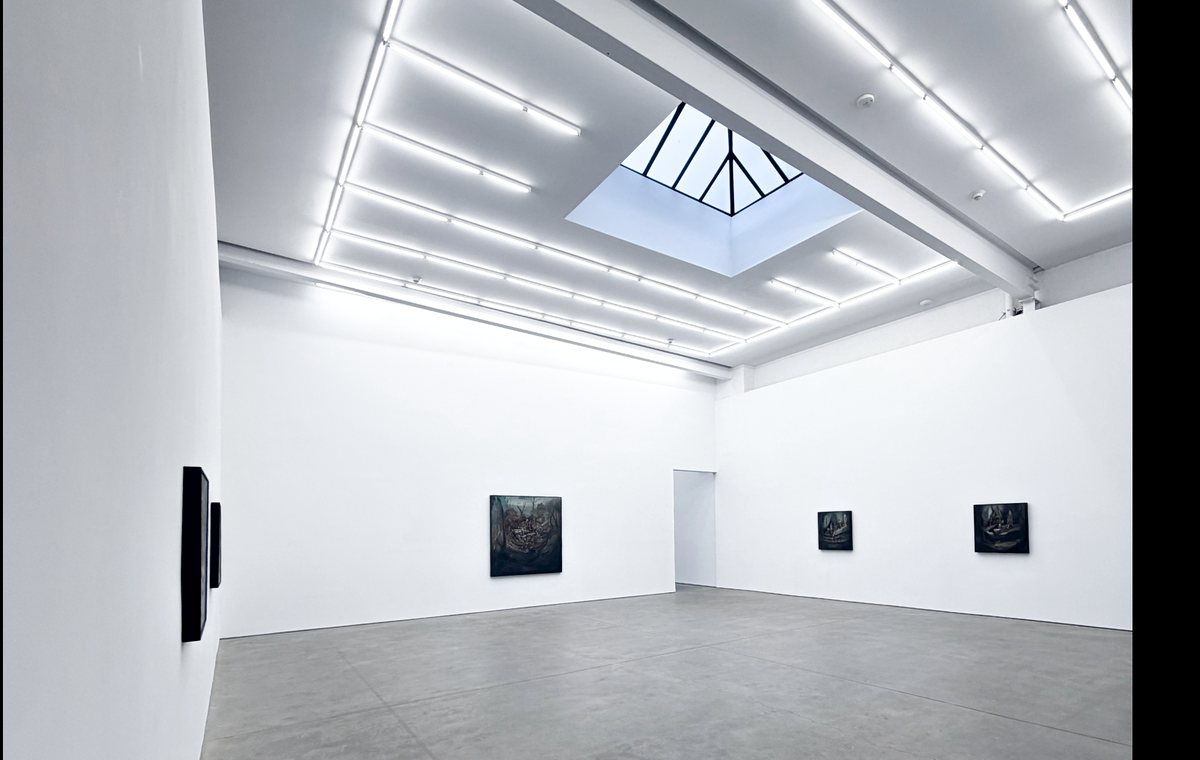
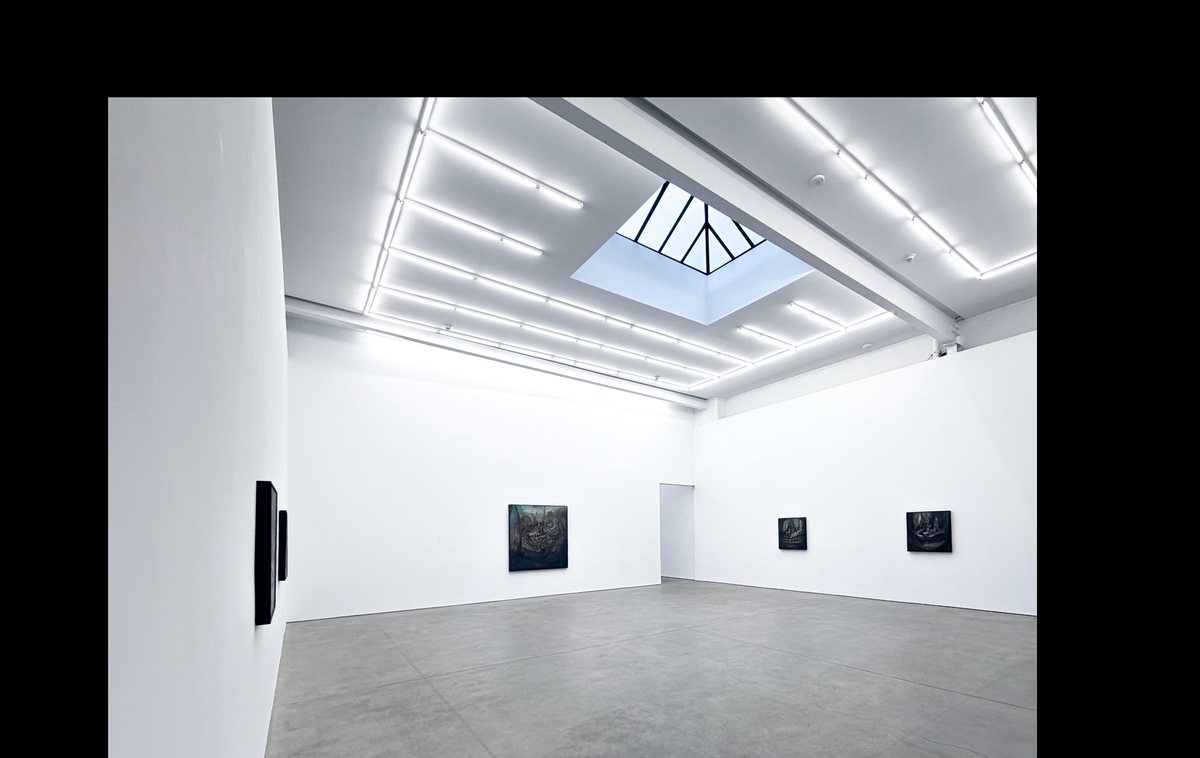
Recenter hero crop (was cut on right) + cache-bust image URLs (?v=2)

diff --git a/index.html b/index.html
@@ -129,7 +129,7 @@
           <!-- ===== HERO (PHOTO) ===== -->
           <tr>
             <td mc:edit="hero_image" style="padding:0;">
-              <img src="https://hanvisuals.github.io/glass-dispatch/img/hero.jpg" width="600" alt="The atrium at Ideal Glass Atelier, skylight and gallery walls" style="width:100%; max-width:600px; height:auto; display:block;">
+              <img src="https://hanvisuals.github.io/glass-dispatch/img/hero.jpg?v=2" width="600" alt="The atrium at Ideal Glass Atelier, skylight and gallery walls" style="width:100%; max-width:600px; height:auto; display:block;">
             </td>
           </tr>
           <tr>
@@ -165,7 +165,7 @@
                   <td class="stack" width="210" valign="top" style="width:210px;">
                     <a mc:edit="feat_video" class="vid" href="https://youtube.com/shorts/2IbGopDpk2A" target="_blank" style="text-decoration:none; display:block;">
                       <div class="stack-img" style="border:1px solid #0E0E0E;">
-                        <img src="https://hanvisuals.github.io/glass-dispatch/img/short-feature.jpg" width="210" alt="Play the Hannah Montana takeover Short" style="width:210px; height:auto; display:block;">
+                        <img src="https://hanvisuals.github.io/glass-dispatch/img/short-feature.jpg?v=2" width="210" alt="Play the Hannah Montana takeover Short" style="width:210px; height:auto; display:block;">
                       </div>
                     </a>
                   </td>
@@ -243,7 +243,7 @@
                   <td class="short-col" width="240" valign="top" style="width:240px;">
                     <a mc:edit="short1_video" class="vid" href="https://youtube.com/shorts/NS6QFCSljAo" target="_blank" style="text-decoration:none; display:block;">
                       <div style="border:1px solid #0E0E0E;">
-                        <img src="https://hanvisuals.github.io/glass-dispatch/img/short-1.jpg" width="240" alt="Play the Love On The Line Short" style="width:240px; height:auto; display:block;">
+                        <img src="https://hanvisuals.github.io/glass-dispatch/img/short-1.jpg?v=2" width="240" alt="Play the Love On The Line Short" style="width:240px; height:auto; display:block;">
                       </div>
                     </a>
                     <div mc:edit="short1_cap" class="mono" style="font-size:11px; letter-spacing:1px; color:#0E0E0E; padding-top:10px;">
@@ -255,7 +255,7 @@
                   <td class="short-col" width="240" valign="top" style="width:240px;">
                     <a mc:edit="short2_video" class="vid" href="https://youtube.com/shorts/xHX1LYEZwL8" target="_blank" style="text-decoration:none; display:block;">
                       <div style="border:1px solid #0E0E0E;">
-                        <img src="https://hanvisuals.github.io/glass-dispatch/img/short-2.jpg" width="240" alt="Play the Microsoft Advertising night Short" style="width:240px; height:auto; display:block;">
+                        <img src="https://hanvisuals.github.io/glass-dispatch/img/short-2.jpg?v=2" width="240" alt="Play the Microsoft Advertising night Short" style="width:240px; height:auto; display:block;">
                       </div>
                     </a>
                     <div mc:edit="short2_cap" class="mono" style="font-size:11px; letter-spacing:1px; color:#0E0E0E; padding-top:10px;">
@@ -274,7 +274,7 @@
             <td class="px" style="padding:30px 48px 0 48px;">
               <div class="mono" style="font-size:11px; letter-spacing:2px; text-transform:uppercase; color:#8A857D; padding-bottom:16px;">The Space</div>
               <div mc:edit="studio_img">
-                <img src="https://hanvisuals.github.io/glass-dispatch/img/studio.jpg" width="504" alt="The Ideal Glass Atelier storefront on East 2nd Street" style="width:100%; max-width:504px; height:auto; display:block;">
+                <img src="https://hanvisuals.github.io/glass-dispatch/img/studio.jpg?v=2" width="504" alt="The Ideal Glass Atelier storefront on East 2nd Street" style="width:100%; max-width:504px; height:auto; display:block;">
               </div>
               <div mc:edit="studio_title" class="disp" style="font-family:'Bodoni Moda', Georgia, serif; font-size:28px; line-height:31px; font-weight:700; color:#0E0E0E; padding-top:18px;">
                 Twenty-two hundred square feet, open to your idea.